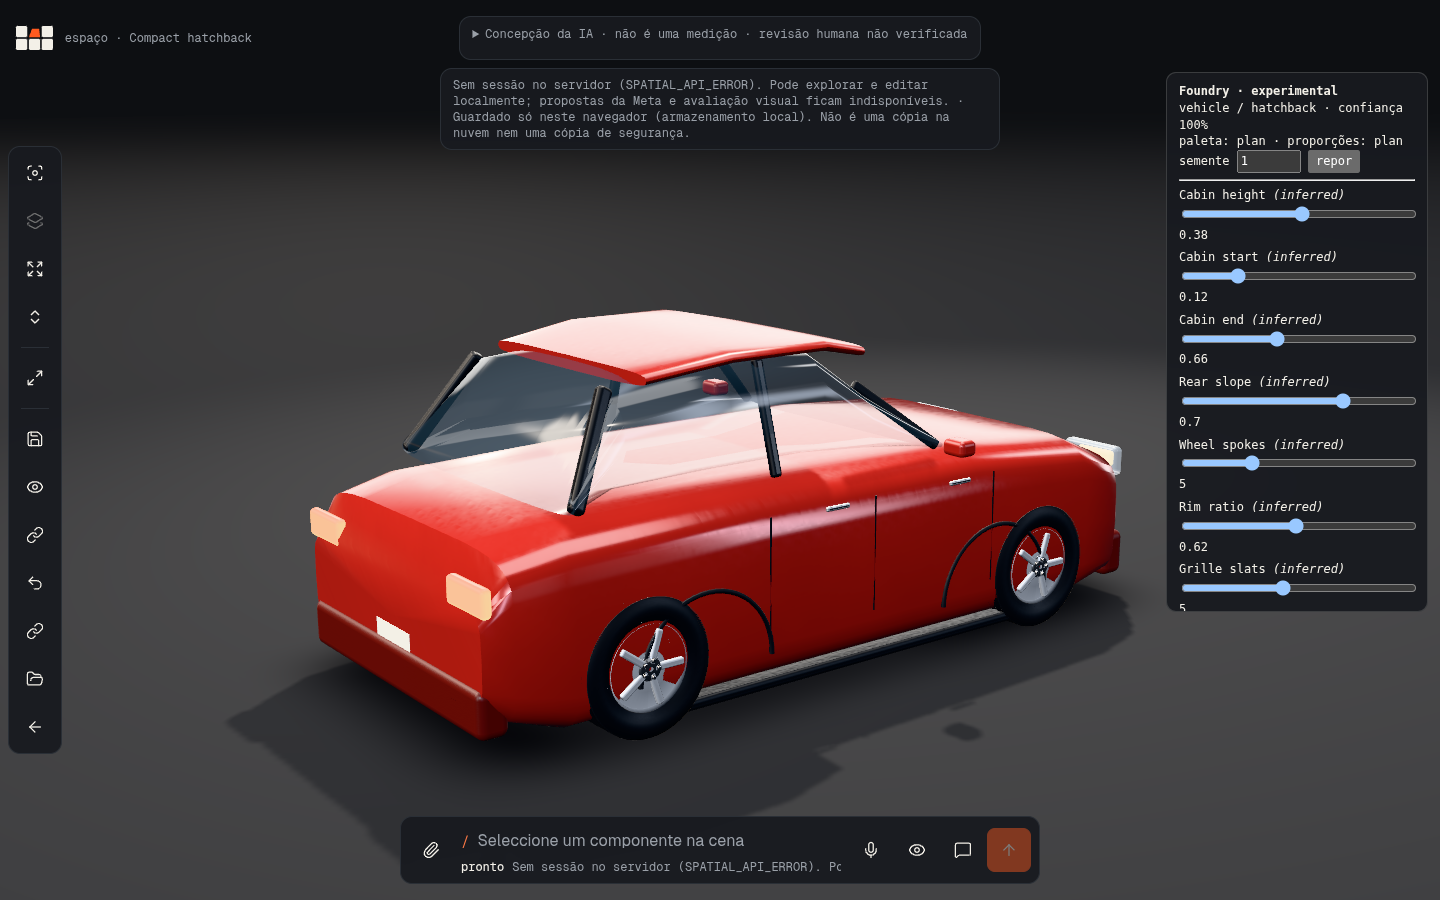
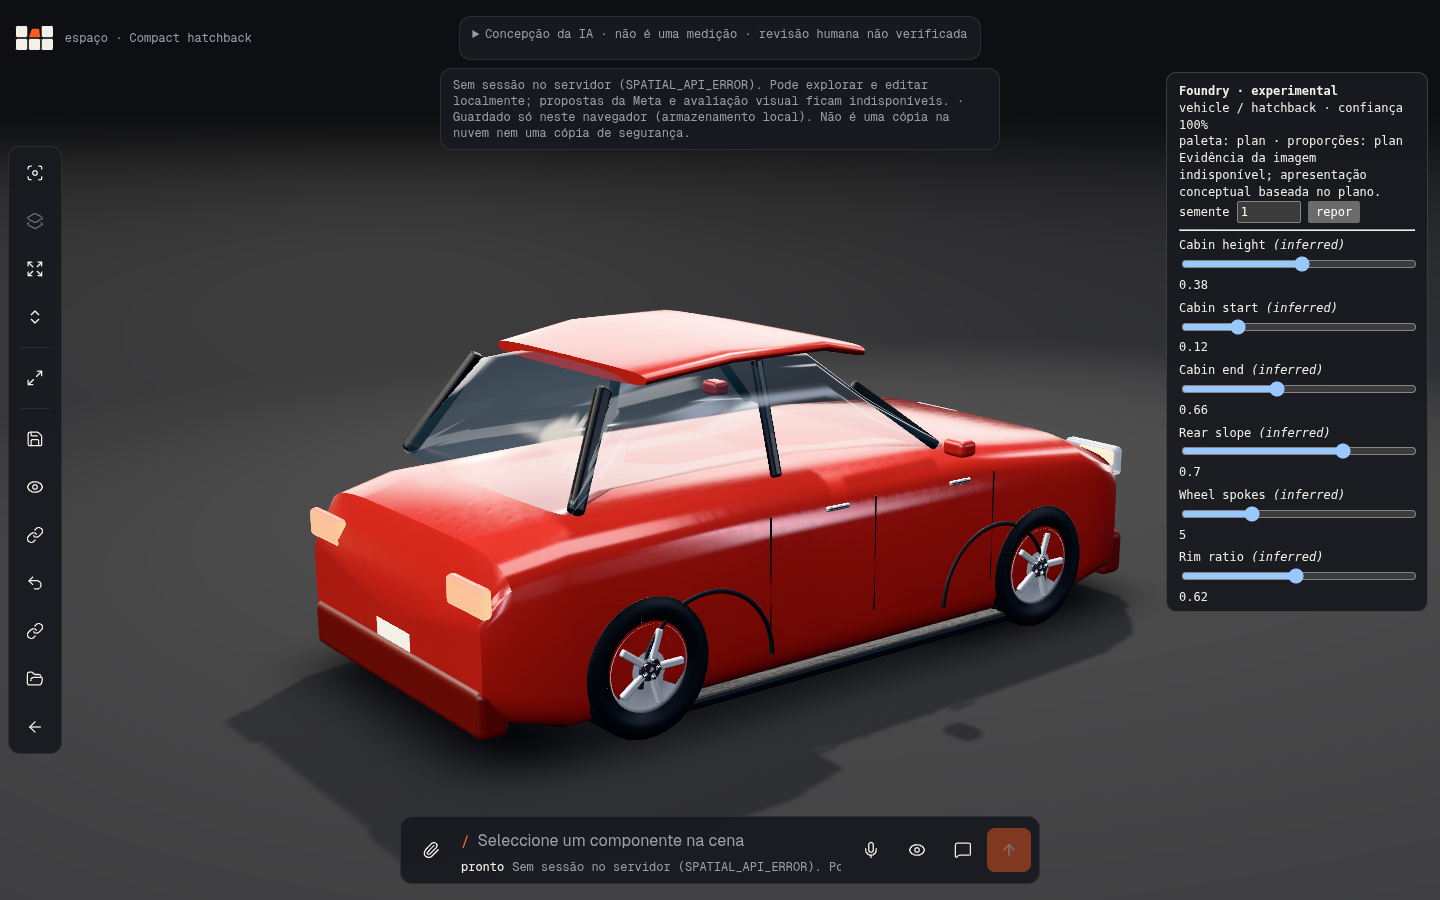
Document guarded fallback and remaining visual blockers

Changed region(s): [[0.8125, 0.1556, 1.0, 0.6844]]

diff --git a/src/living/spatial-space/flow.ts b/src/living/spatial-space/flow.ts
@@ -230,11 +230,16 @@ export class SpaceFlow {
       const reply = await this.create(request, fetchImpl);
       if (this.abort !== mine || mine.signal.aborted || generation !== this.sourceGeneration) return;
       if (source.kind === 'image' && prepared && this.options.onImage) {
-        const hashData = async (url: string) => { const bytes = Uint8Array.from(atob(url.slice(url.indexOf(',') + 1)), c => c.charCodeAt(0)); const digest = await crypto.subtle.digest('SHA-256', bytes); return [...new Uint8Array(digest)].map(b => b.toString(16).padStart(2, '0')).join(''); };
-        const [originalSha256, preparedSha256, planFingerprint] = await Promise.all([hashData(source.dataUrl), hashData(prepared.dataUrl), spatialPlanFingerprintV2(reply.plan)]);
-        if (this.abort !== mine || mine.signal.aborted || generation !== this.sourceGeneration) return;
-        if (reply.plan.source.kind === 'image' && reply.plan.source.sha256 === preparedSha256) await this.options.onImage({ dataUrl: source.dataUrl, originalSha256, preparedSha256, preparation: prepared.transcodedFrom ? `${prepared.transcodedFrom}->${prepared.mime}` : `identity:${prepared.mime}`, plan: reply.plan, planFingerprint, generationId: String(generation), signal: mine.signal });
-        if (this.abort !== mine || mine.signal.aborted || generation !== this.sourceGeneration) return;
+        try {
+          const hashData = async (url: string) => { const bytes = Uint8Array.from(atob(url.slice(url.indexOf(',') + 1)), c => c.charCodeAt(0)); const digest = await crypto.subtle.digest('SHA-256', bytes); return [...new Uint8Array(digest)].map(b => b.toString(16).padStart(2, '0')).join(''); };
+          const [originalSha256, preparedSha256, planFingerprint] = await Promise.all([hashData(source.dataUrl), hashData(prepared.dataUrl), spatialPlanFingerprintV2(reply.plan)]);
+          if (this.abort !== mine || mine.signal.aborted || generation !== this.sourceGeneration) return;
+          if (reply.plan.source.kind === 'image' && reply.plan.source.sha256 === preparedSha256) await this.options.onImage({ dataUrl: source.dataUrl, originalSha256, preparedSha256, preparation: prepared.transcodedFrom ? `${prepared.transcodedFrom}->${prepared.mime}` : `identity:${prepared.mime}`, plan: reply.plan, planFingerprint, generationId: String(generation), signal: mine.signal });
+          if (this.abort !== mine || mine.signal.aborted || generation !== this.sourceGeneration) return;
+        } catch {
+          if (this.abort !== mine || mine.signal.aborted || generation !== this.sourceGeneration) return;
+          this.options.onEvidenceInvalidated?.();
+        }
       }
       this.metaCalls += 1;
       this.reply = reply; this.review = initialSpaceReview(); this.phase = 'review';

diff --git a/src/living/universal-foundry/panel.ts b/src/living/universal-foundry/panel.ts
@@ -16,7 +16,7 @@ export function mountFoundryPanel(geometry: FoundryGeometry, layer: () => PlanSp
     const recipe = geometry.recipe, l = layer();
     if (!recipe || !l) { root.style.display = 'none'; return; }
     root.style.display = 'block'; const values = geometry.values;
-    root.innerHTML = `<strong>Foundry · experimental</strong><div>${recipe.category} / ${recipe.archetype} · confiança ${(recipe.confidence * 100).toFixed(0)}%</div><div>paleta: ${recipe.paletteKnown} · proporções: ${recipe.proportions.known}</div><div>semente <input data-seed type="number" min="0" value="${geometry.currentSeed}" style="width:64px"> <button data-reset>repor</button></div><hr>${geometry.specs.map((s) => `<label style="display:block;margin:6px 0">${esc(s.label)} <em>(${s.known})</em>${input(s, values[s.key]!)}</label>`).join('')}<details><summary>desconhecido (${recipe.unknowns.length})</summary>${recipe.unknowns.map((u) => `<div>· ${esc(u)}</div>`).join('')}</details>`;
+    root.innerHTML = `<strong>Foundry · experimental</strong><div>${recipe.category} / ${recipe.archetype} · confiança ${(recipe.confidence * 100).toFixed(0)}%</div><div>paleta: ${recipe.paletteKnown} · proporções: ${recipe.proportions.known}</div>${l.currentPlan.source.kind === 'image' && !recipe.evidence.used ? '<div role="status">Evidência da imagem indisponível; apresentação conceptual baseada no plano.</div>' : ''}<div>semente <input data-seed type="number" min="0" value="${geometry.currentSeed}" style="width:64px"> <button data-reset>repor</button></div><hr>${geometry.specs.map((s) => `<label style="display:block;margin:6px 0">${esc(s.label)} <em>(${s.known})</em>${input(s, values[s.key]!)}</label>`).join('')}<details><summary>desconhecido (${recipe.unknowns.length})</summary>${recipe.unknowns.map((u) => `<div>· ${esc(u)}</div>`).join('')}</details>`;
   };
   const apply = (change: Record<string, ParamValue>, seed?: number) => { const l = layer(); if (!l) return; geometry.set(l.currentPlan, change, seed); l.regenerate(); };
   root.addEventListener('input', (e) => { const t = e.target as HTMLInputElement; if (t.dataset.k && t.type === 'range') { const o = t.nextElementSibling as HTMLOutputElement | null; if (o) o.textContent = t.value; } });

diff --git a/reports/product-integration/UNIVERSAL-FOUNDRY-V1-1-IMAGE-INTEGRITY.md b/reports/product-integration/UNIVERSAL-FOUNDRY-V1-1-IMAGE-INTEGRITY.md
@@ -1,0 +1,36 @@
+# Universal Foundry V1.1 — image integrity and geometry
+
+**Status: incomplete; NO-GO for guarded integration.** The original cross-Space image contamination was reproduced and corrected, and targeted geometry changes were made. The mini-excavator connection remains visually unverified, wheel arch trim still appears offset in one view, and no photographic shape fitting has been implemented. Under the requested ordering, image fitting was not started while the known geometry defects remain open. This is not a demonstration of photograph-controlled geometry.
+
+Base `audit/universal-foundry-provider-v1@0ed13d18a43eba58938cde7d35655229d0a25338`; branch `feat/universal-foundry-v1-1-image-integrity`. Experimental Foundry remains behind its existing flag. No paid APIs, merge, Wonder worktree change, or authoritative plan mutation is part of this work.
+
+## Image provenance and lifecycle
+
+Before the fix, two new regression tests failed: evidence from B survived `dispose()` when returning to A, and a different plan sharing a source hash inherited A's parameter override. Evidence is now accepted only after source image bytes and prepared bytes are hashed, the prepared SHA matches the returned image-plan source, and the SHA-256 plan fingerprint is computed. Evidence records the original/prepared SHA, preparation mode, plan identity, recipe version and generation; the provider independently verifies the fingerprint and refuses mismatches. Generation and abort guards reject delayed file reads, image decoding and fingerprint results. Exact canonical plan identity is also used for parameter overrides so two different plans with the same source do not share them. This invalidates existing experimental V1 parameter keys rather than guessing which plan they belonged to.
+
+Image bytes and evidence are **not persisted**. Reopening a saved image Space deliberately clears them, shows the evidence-unavailable limitation in the experimental recipe and uses a plan-based conceptual fallback. It does not restore the original colour. The browser A→B→A test uploads two licensed photos and binds a hand-authored plan to their input hashes solely to exercise the lifecycle; it is not image inference. See `uvf-v1-1/image-lifecycle/result.json` and its captures. A separate browser test delays an image decode, cancels the request and releases the decode; it also races slow and fast uploads. Both pass. Unit tests cover A→B→A, same-source different-plan overrides, plan/fingerprint mismatch, cancellation and disposal. No persistent source or bounded evidence store was implemented.
+
+## Geometry
+
+- Open-end spanner: closed hexagonal hole replaced by an open profile, with the opening directed away from the handle; ring-spanner remains a distinct closed archetype. Steel is the default grip instead of unsupported red rubber. Raycast tests verify an open mouth and material on both jaws, and a separate ring head. Compare `uvf-independent/wrench-foundry-front.png` with `uvf-v1-1/geometry/wrench-foundry-front.png`.
+- Vehicle: solid dark cylinders were replaced with thin semicircular trim. Wheels remain visible and IDs and plans remain unchanged. Compare `uvf-independent/hatchback-foundry-threeQuarter.png` and `uvf-v1-1/geometry/hatchback-foundry-threeQuarter.png`. The trim appears displaced in a view and the body has no actual wheel cutout; this is **not accepted as a finished wheel-arch solution**.
+- Excavator: the hydraulic cylinder uses its longest local axis instead of the short horizontal dimension, so the barrel and rod are visible. A candidate inferred bridge produced a visibly floating artefact and was removed. Current fixture AABB separation remains 0.016 plan units between cylinder and boom, and 0 for cylinder and house; box overlap does not prove a joint. The endpoint appears near the cab in the capture. No inferred hinge coordinates were claimed. Compare `uvf-independent/miniExcavator-foundry-side.png` and `uvf-v1-1/geometry/miniExcavator-foundry-side.png`. The mechanical chain remains unresolved.
+
+The three above use the real `/living?debug-living&experimental-foundry` renderer with offline, hand-authored plans and mocked 503 responses for other APIs. The same view policy is used as the V1 audit. V2 is used by the product router for those fixture components; the screenshots are not a V3-generated comparison. Existing tests exercise the eight family classifiers and generation, but all eight families have not been recaptured in the browser after the changes.
+
+## Remaining work and safety
+
+1. Correct and visually validate actual wheel-arch alignment/cutouts and the excavator's attachments. Use relationships and verified evidence when available; label any approximation inferred. Do not promote the AABB measurement to mechanical proof.
+2. Only then implement the bounded image-conditioned fitting. The present foreground extractor returned 90% foreground on the car photograph in the A/B/A run; the result is not a reliable object mask. Obtain and verify registered masks and explicit camera hypotheses before drawing conclusions. The requested two-real-photo shape change, colour-only negative control, Worker, cancellation and stale-fit rejection are **not implemented or verified**.
+3. Investigate the Chromium closures with a trace or browser crash logs; one further attempt in the visual harness ended with `Target page, context or browser has been closed`. One isolated mini-excavator capture subsequently succeeded. The cause is unknown. No physical-GPU, iOS, VRAM or long-duration memory result is available.
+4. Review image-bound data retention and confirm whether future storage should preserve the original, prepared image, or derived evidence. Current reopening is safe fallback, not restoration.
+
+No universal photographic fidelity, image-conditioned geometry, engineering dimensions or mechanical validation is claimed.
+
+## Verification
+
+- Full suite `npx vitest run --maxWorkers=2`: 163 files and 2,553 tests passed.
+- `npm run build`: passed, with the existing landing contact-email and bundle-size warnings.
+- Focused image lifecycle: A→B→A and delayed decode/upload race exercised in Chromium with local fixtures; geometry capture: wrench, hatchback and mini-excavator in `/living`.
+- No paid inference or merge. No GPU-physical or iOS result.
+- Four post-change mini-excavator close/reopen cycles: 27 geometries and 14 materials observed per cycle emitted `dispose` events; renderer geometry counts changed 31 → 4 → 31, textures 13 → 7 → 13. Chromium's reported heap varied from roughly 71 MB to 153 MB, with no forced GC. These counters are not a proof of no leaks or a measurement of GPU memory. Raw output: `uvf-v1-1/resource-lifecycle.json`.
